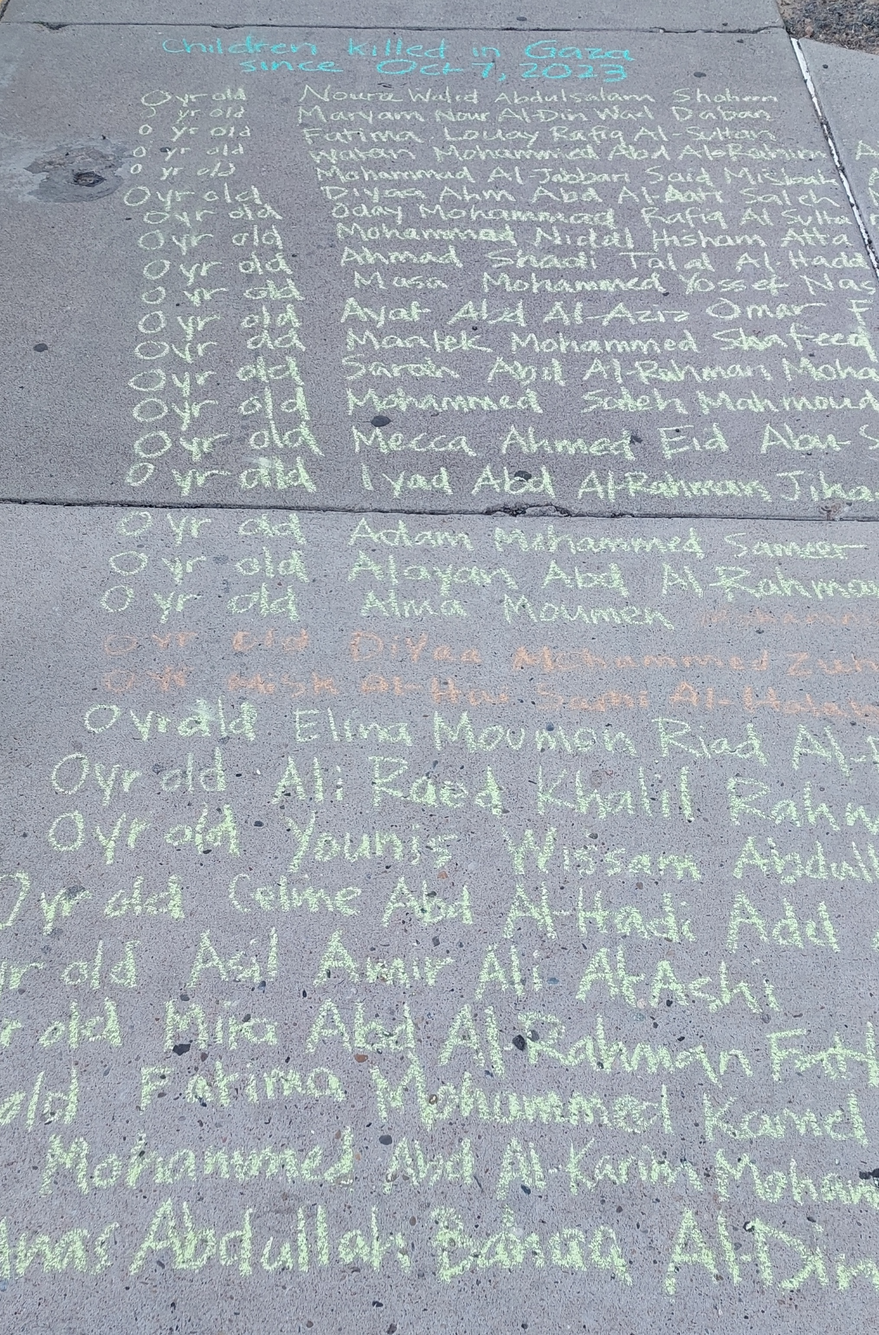
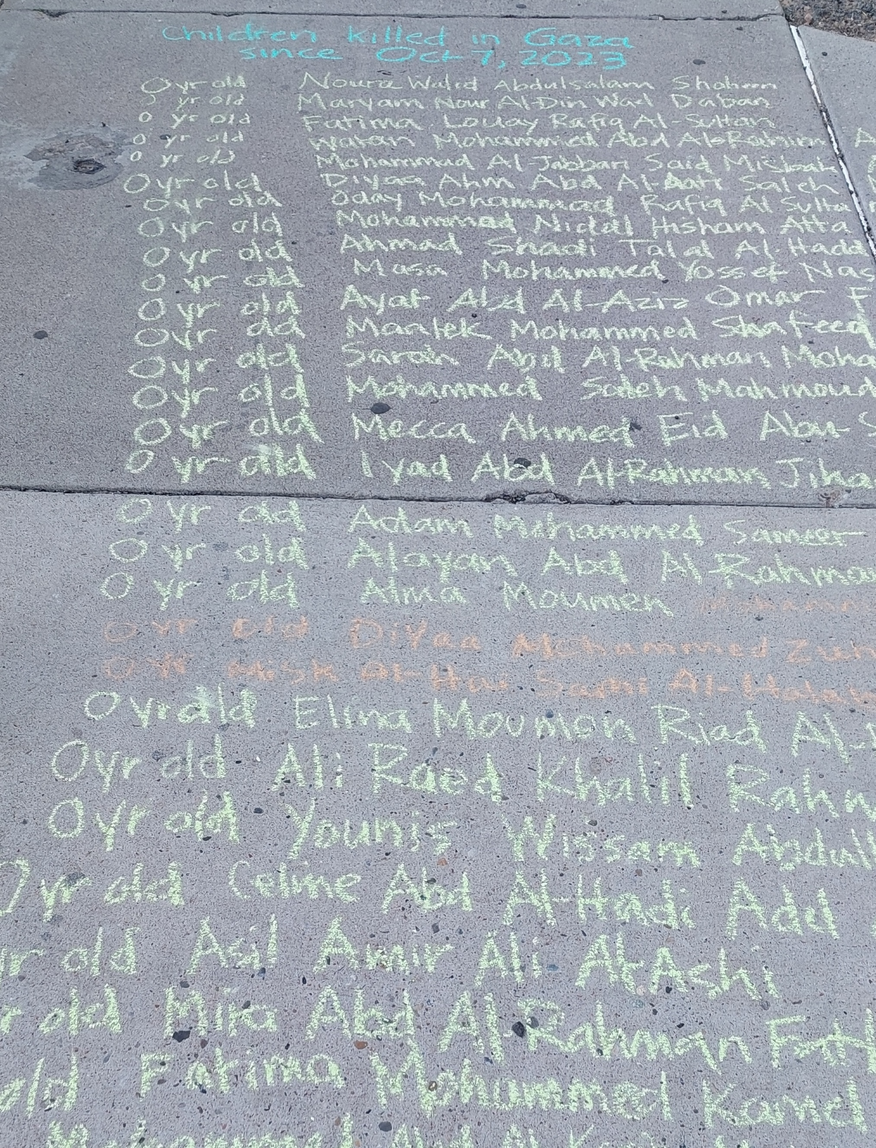
still working on the history

diff --git a/assets/css/styles.scss b/assets/css/styles.scss
@@ -12,7 +12,8 @@
 
 .image-row img {
   width: 100%;
-  height: auto;
+  aspect-ratio: 4 / 3;
+  object-fit: cover;
 }
 
 @media (max-width: 600px) {
